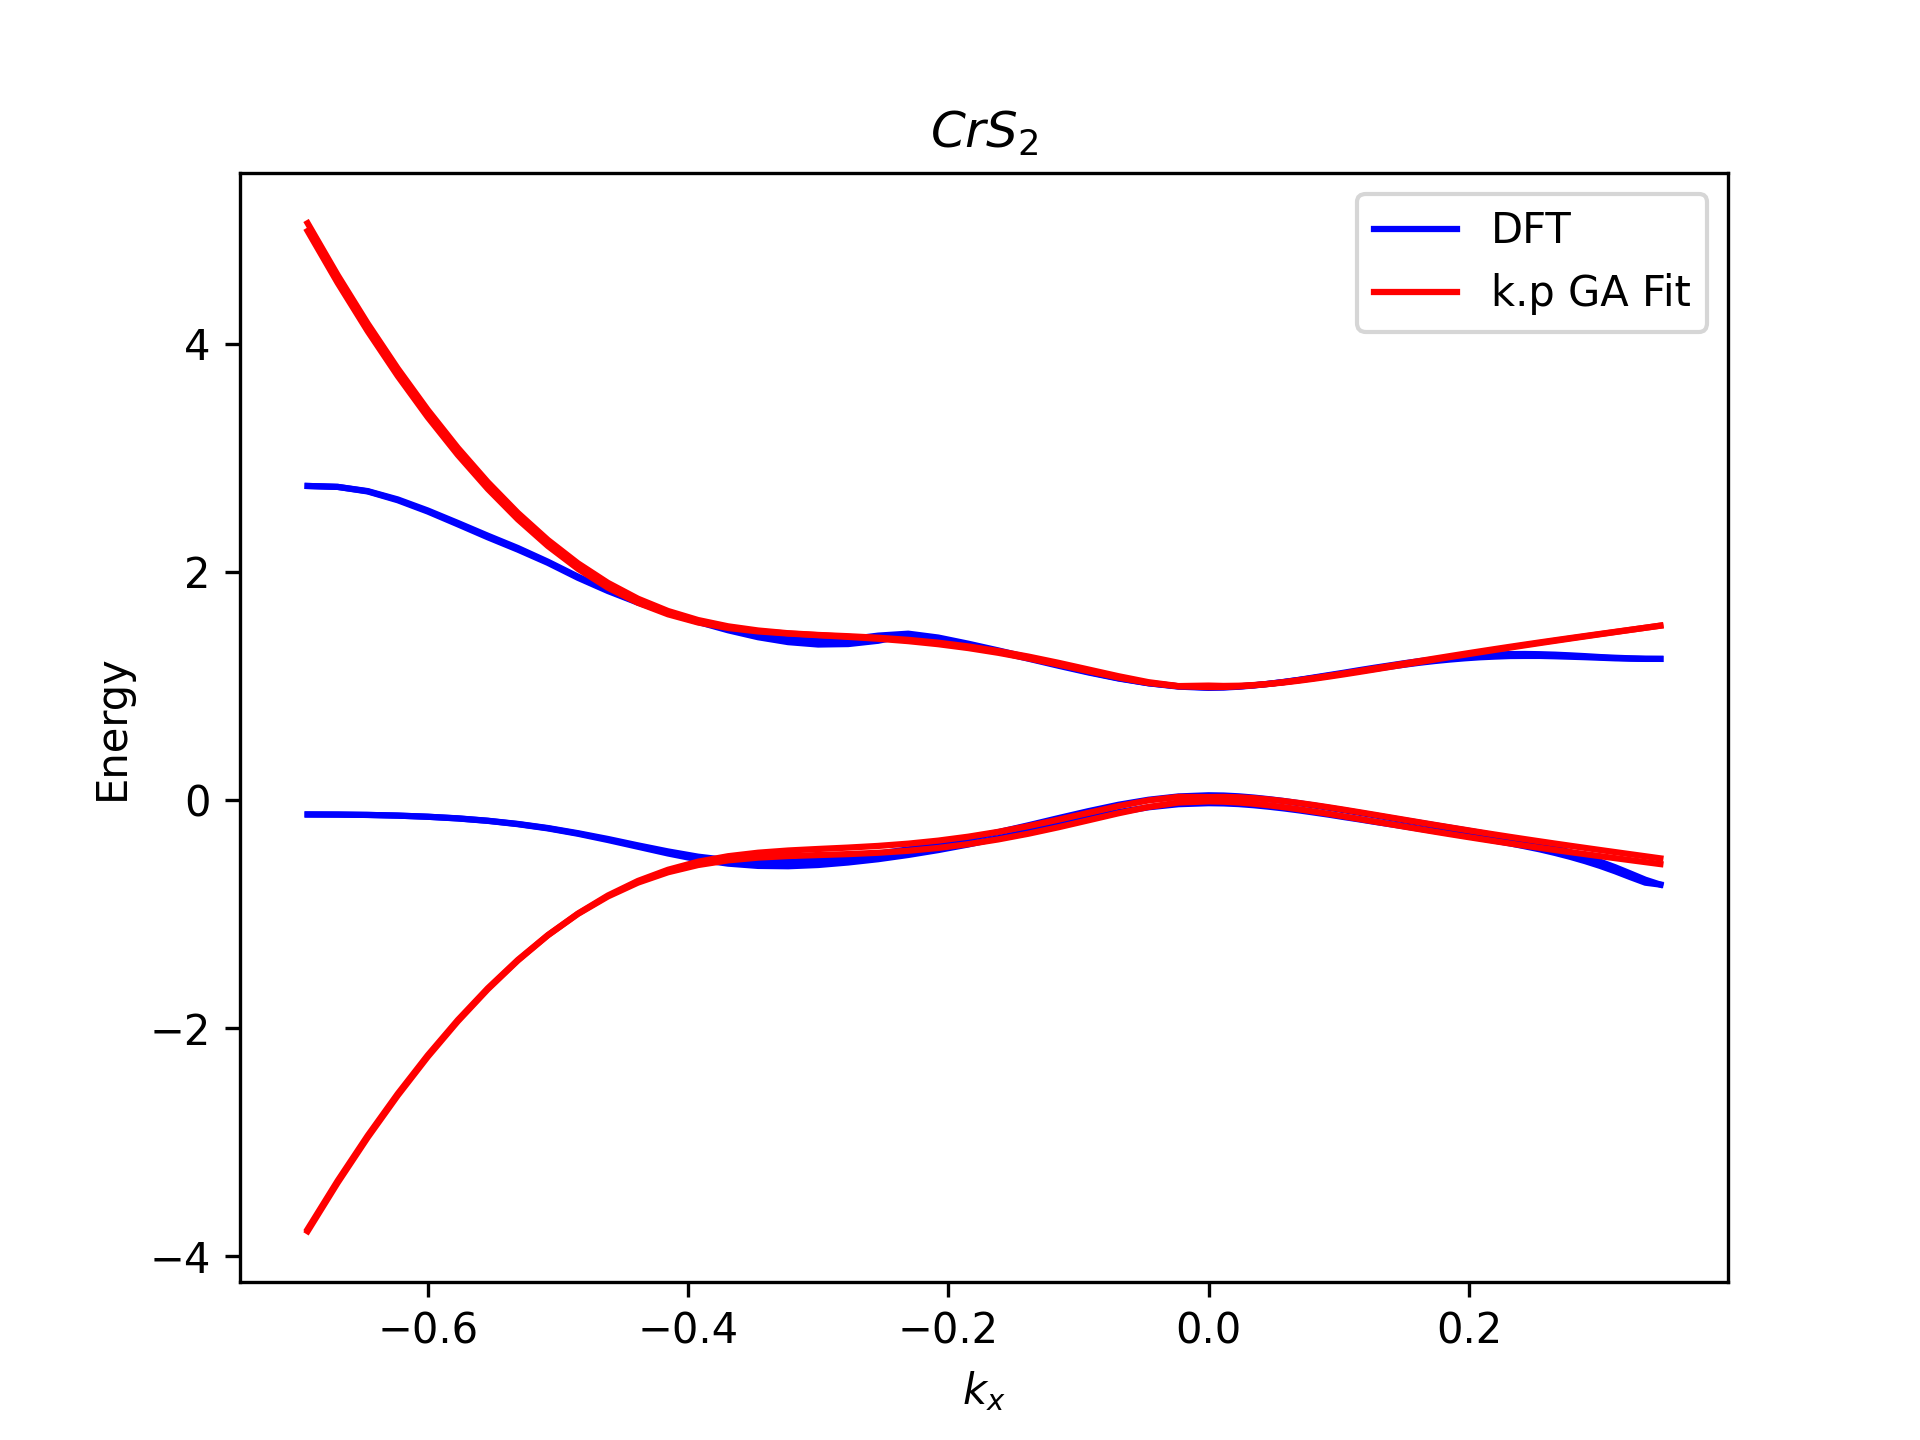
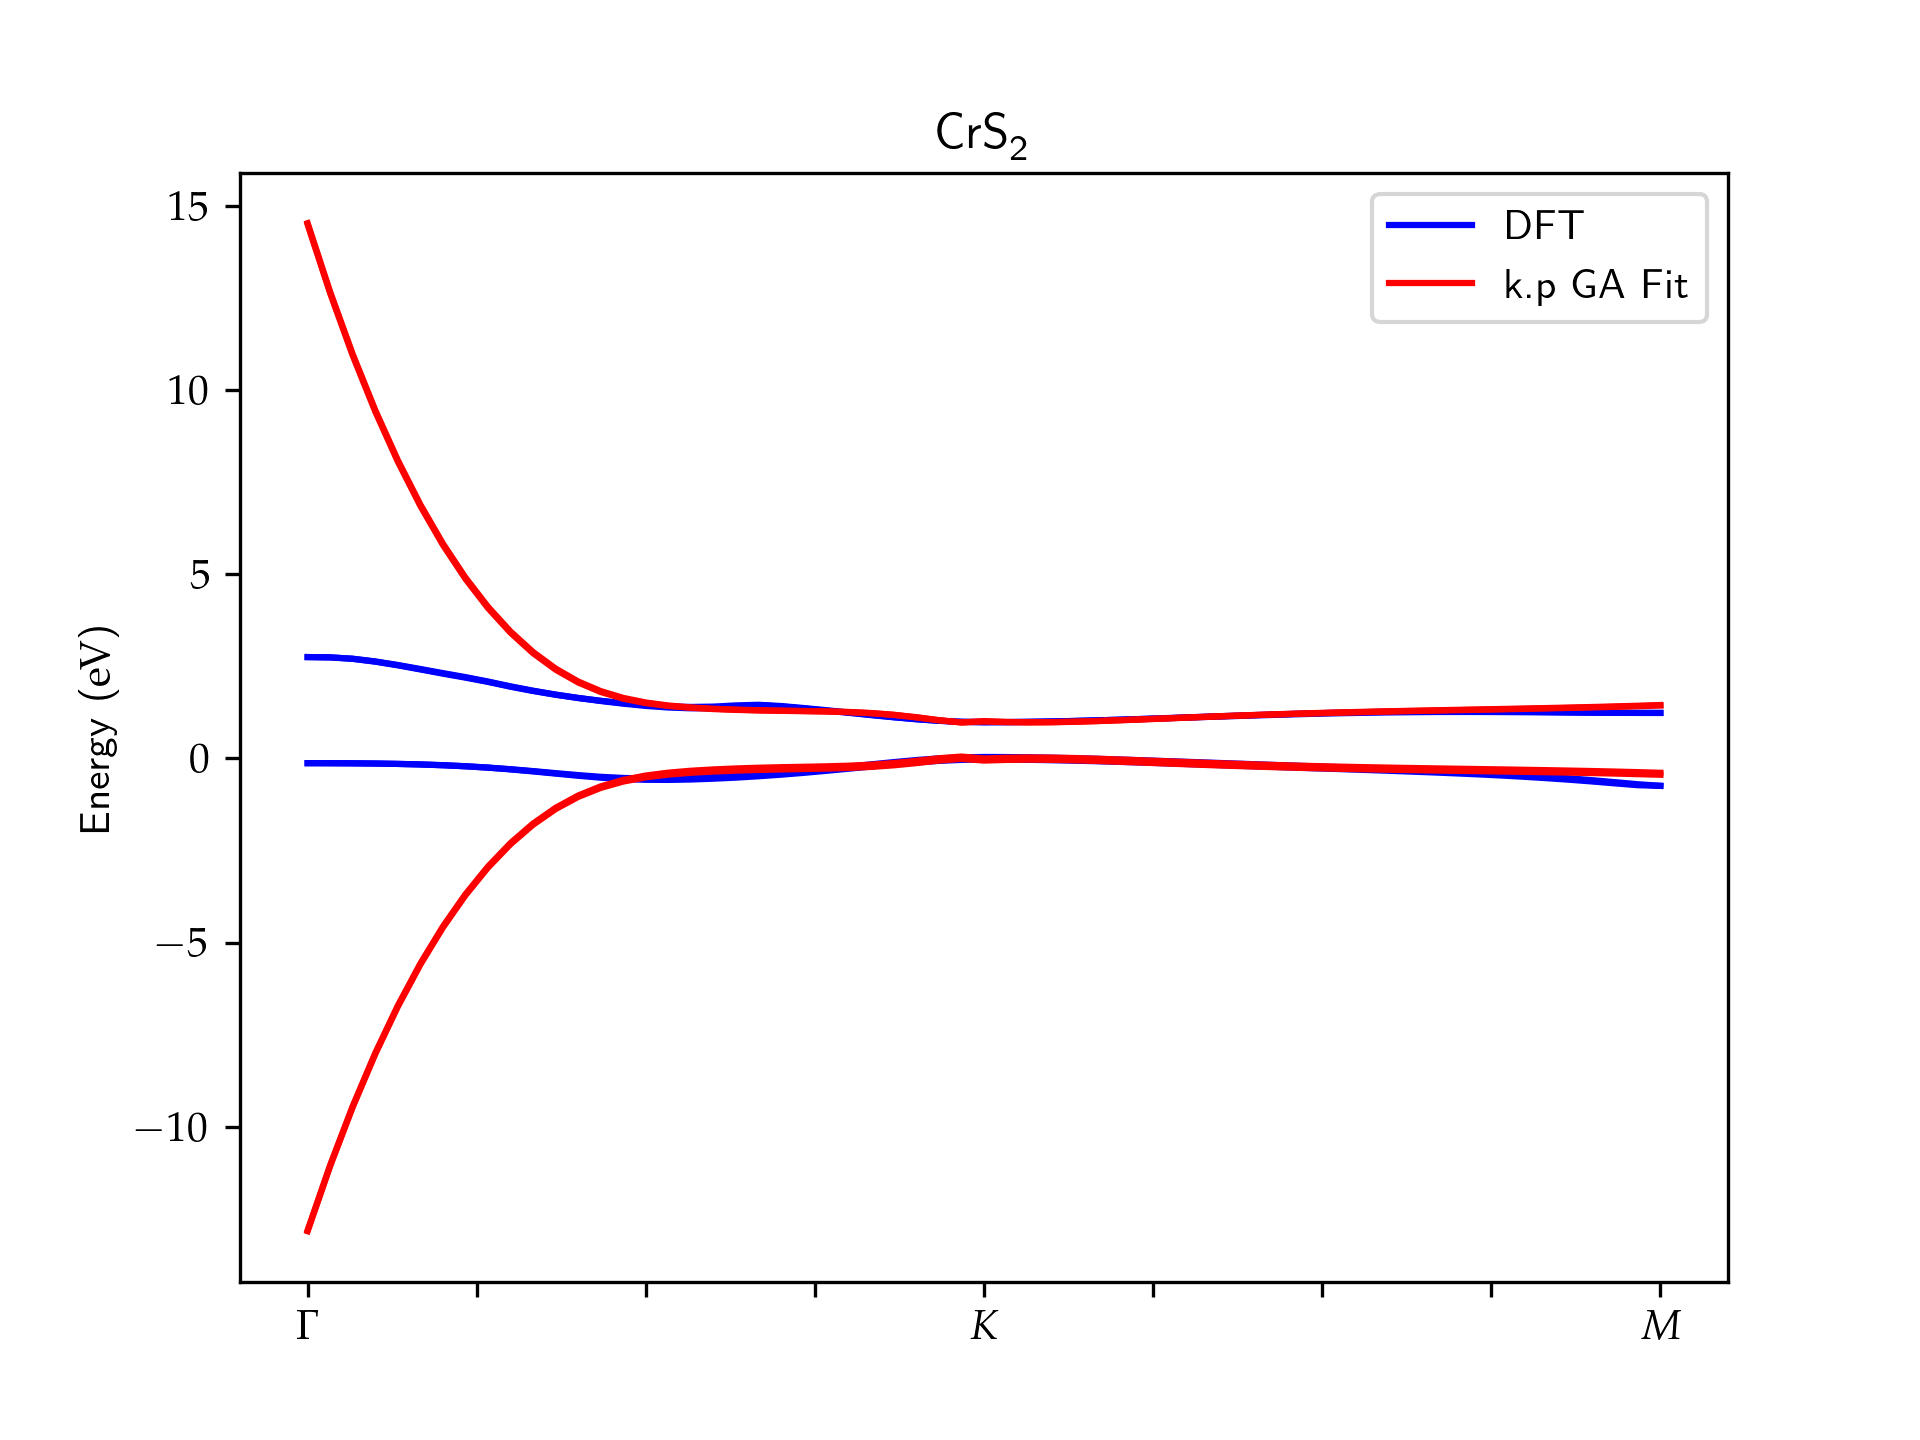
Improoving plot layout, refactoring

diff --git a/dual_annealing.py b/dual_annealing.py
@@ -5,17 +5,26 @@ from numpy.typing import ArrayLike
 import numpy as np
 from scipy.optimize import dual_annealing
 import matplotlib.pyplot as plt
+from mpl_config import latex_preamble, xtick_label_formatter
 from kp_model import (
     third_order_ham_factory,
     get_energies,
     avg_squared_diff,
+    get_fitting_region,
+    get_plot_domain,
+)
+
+plt.rcParams.update(
+    {
+        "text.usetex": True,
+        "text.latex.preamble": latex_preamble,
+    }
 )
 
 CRS2_LATTICE = 3.022302679
 CRSE2_LATTICE = 3.167287237
 
 csv_dir = Path("data/csv")
-csv_files = list(csv_dir.glob("*.csv"))
 plot_dir = Path("plots")
 
 suggested_search_region = (
@@ -55,20 +64,22 @@ dual_annealing_contexts = (
 
 def dual_annealing_callback(x, f, context_index):
     print(f"\nContext: {dual_annealing_contexts[context_index]}")
-    print(f"Function value: {f}")
+    print(f"Function value: {f: .4e}")
     print("Params:")
     for param, param_label in zip(iter(x), params_labels):
-        print(10 * " ", f"{param_label: <8} = {param}")
+        print(10 * " ", f"{param_label: <8} = {param: .4e}")
 
 
 if __name__ == "__main__":
+
+    csv_files = list(csv_dir.glob("*.csv"))
     lattices = (CRS2_LATTICE, CRSE2_LATTICE)
-    titles = ("$CrS_2$", "$CrSe_2$")
-    output_data = []
+    titles = ("$\ch{CrS2}$", "$\ch{CrSe2}$")
 
     for file, lattice, title in zip(csv_files, lattices, titles):
         crystal = file.stem.split("_")[0]
 
+        # Reading data from files
         print(f"\nFor {file}:", end="\n\n")
         print("Reading data")
         df = pd.read_csv(file)
@@ -76,45 +87,43 @@ if __name__ == "__main__":
         energies = df.loc[:, "e1":"e4"].to_numpy()
         sorted_energies = np.sort(energies)
 
-        k_fitting_region = (20, 50)
-        zero_neigh_ks = ks[k_fitting_region[0] : k_fitting_region[1], :]
-        zero_neigh_energies = sorted_energies[
-            k_fitting_region[0] : k_fitting_region[1], :
-        ]
+        # Data subset that will be used in the fitting process
+        lower_fit_bound, upper_fit_bound = get_fitting_region(ks)
+        fitting_ks = ks[lower_fit_bound:upper_fit_bound, :]
+        fitting_energies = sorted_energies[lower_fit_bound:upper_fit_bound, :]
+        print(
+            f"Fitting region: {fitting_ks[0, 0]: .3f} < kx < {fitting_ks[-1, 0]: .3f}"
+        )
 
         def obj_function(params: ArrayLike) -> float:
             return avg_squared_diff(
-                ks=zero_neigh_ks,
-                sorted_energies=zero_neigh_energies,
+                ks=fitting_ks,
+                sorted_energies=fitting_energies,
                 ham_factory=third_order_ham_factory,
                 params=(lattice, *params),
             )
 
-        print(f"Fitting for kx in [{zero_neigh_ks[0, 0]}, {zero_neigh_ks[-1, 0]}]")
         result = dual_annealing(
             obj_function,
             bounds=np.array(suggested_search_region),
             callback=dual_annealing_callback,
         )
-
-        # Energy diagrams
-        print("\nCreating energy plot")
-        fig, ax = plt.subplots()
-        ax.set(xlabel="$k_x$", ylabel="Energy", title=title)
-        ax.plot(ks[:, 0], sorted_energies, color="blue", label="DFT")
-
-        params = result.x
         best_func_value = result.fun
-
-        # Appending results to output_data to create an unified dataframe later
-        output_data.append([best_func_value, lattice] + list(params))
-
+        params = result.x
         sorted_eigenvalues = get_energies(
             ks, ham_factory=third_order_ham_factory, params=[lattice, *params]
         )
 
+        # Creating plots
+        print("\nCreating energy plot")
+        fig, ax = plt.subplots()
+        ax.set(ylabel=r"Energy (\si{\eV})", title=title)
+        ax.xaxis.set_major_formatter(plt.FuncFormatter(xtick_label_formatter))
+
+        plot_domain = get_plot_domain(ks)
+        ax.plot(plot_domain, sorted_energies, color="blue", label="DFT")
         ax.plot(
-            ks[:, 0],
+            plot_domain,
             sorted_eigenvalues,
             color="red",
             label="k.p Dual Annealing Fit",
@@ -129,28 +138,27 @@ if __name__ == "__main__":
         print(f"Saving figure as {filename}")
         plt.savefig(filename, dpi=300)
 
-    # Creating dataframe with the results
-    print("Creating a dataframe with the results")
-    output_df = pd.DataFrame(
-        data=np.array(output_data).transpose(),
-        columns=("crs2", "crse2"),
-        index=(
-            "obj_func_value",
-            "lattice",
-            "fermi_energy",
-            "delta",
-            "lamdba_c",
-            "lambda_v",
-            "gamma_0",
-            "gamma_1",
-            "gamma_2",
-            "gamma_3",
-            "gamma_4",
-            "gamma_5",
-            "gamma_6",
-        ),
-    )
+        # Creating dataframe with the results
+        print("Creating a dataframe with the results")
+        output_df = pd.DataFrame(
+            data=[best_func_value, lattice] + list(params),
+            index=(
+                "obj_func_value",
+                "lattice",
+                "fermi_energy",
+                "delta",
+                "lamdba_c",
+                "lambda_v",
+                "gamma_0",
+                "gamma_1",
+                "gamma_2",
+                "gamma_3",
+                "gamma_4",
+                "gamma_5",
+                "gamma_6",
+            ),
+        )
 
-    filename = csv_dir.joinpath("result_dual_annealing.csv")
-    print(f"Saving output as {filename}")
-    output_df.to_csv(filename)
+        filename = csv_dir.joinpath(f"{crystal}_result_dual_annealing.csv")
+        print(f"Saving output as {filename}")
+        output_df.to_csv(filename, header=None)

diff --git a/main.py b/main.py
@@ -4,25 +4,36 @@ from typing import List
 from pathlib import Path
 import multiprocessing as mp
 import pandas as pd
-from numpy.typing import ArrayLike
+from numpy.typing import ArrayLike, NDArray
 import numpy as np
+from numpy.linalg import norm
 import matplotlib.pyplot as plt
+from mpl_config import latex_preamble, xtick_label_formatter
 from num_opt_ga import NumericalOptimizationGA
 from kp_model import (
     third_order_ham_factory,
     get_energies,
     avg_squared_diff,
+    get_fitting_region,
+    get_plot_domain,
+)
+
+plt.rcParams.update(
+    {
+        "text.usetex": True,
+        "text.latex.preamble": latex_preamble,
+    }
 )
 
 PROCESSES = mp.cpu_count() - 2
 GENS = 50
+POP_SIZE = 500
 # THRESHOLD = 2e-4
 REFINEMENT_RATIO = 0.1
 CRS2_LATTICE = 3.022302679
 CRSE2_LATTICE = 3.167287237
 
 csv_dir = Path("data/csv")
-csv_files = list(csv_dir.glob("*.csv"))
 plot_dir = Path("plots")
 
 suggested_search_region = (
@@ -47,10 +58,6 @@ refined_interval_sizes = tuple(
 )
 
 
-def get_best_func_value(ga_instance: NumericalOptimizationGA) -> float:
-    return abs(ga_instance.function(ga_instance.best()[0].pos))
-
-
 def get_refined_search_regions(
     ga_list: List[NumericalOptimizationGA],
 ) -> List[NumericalOptimizationGA]:
@@ -61,6 +68,10 @@ def get_refined_search_regions(
         ]
         for ga in ga_list
     ]
+
+
+def get_best_func_value(ga_instance: NumericalOptimizationGA) -> float:
+    return abs(ga_instance.function(ga_instance.best()[0].pos))
 
 
 def evolve_ga(ga_instance: NumericalOptimizationGA) -> NumericalOptimizationGA | None:
@@ -91,12 +102,14 @@ def evolve_gas(
 
 if __name__ == "__main__":
 
+    csv_files = list(csv_dir.glob("*.csv"))
     lattices = (CRS2_LATTICE, CRSE2_LATTICE)
-    titles = ("$CrS_2$", "$CrSe_2$")
+    titles = ("$\ch{CrS2}$", "$\ch{CrSe2}$")
 
     for file, lattice, title in zip(csv_files, lattices, titles):
         crystal = file.stem.split("_")[0]
 
+        # Reading data from files
         print(f"\nFor {file}:", end="\n\n")
         print("Reading data")
         df = pd.read_csv(file)
@@ -104,13 +117,15 @@ if __name__ == "__main__":
         energies = df.loc[:, "e1":"e4"].to_numpy()
         sorted_energies = np.sort(energies)
 
-        k_fitting_region = (21, 48)
-        fitting_ks = ks[k_fitting_region[0] : k_fitting_region[1], :]
+        # Data subset that will be used in the fitting process
+        lower_fit_bound, upper_fit_bound = get_fitting_region(ks)
+        fitting_ks = ks[lower_fit_bound:upper_fit_bound, :]
+        fitting_energies = sorted_energies[lower_fit_bound:upper_fit_bound, :]
         print(
-            f"Fitting region: {fitting_ks[0, 0]: .2f} < kx < {fitting_ks[-1, 0]: .2f}"
+            f"Fitting region: {fitting_ks[0, 0]: .3f} < kx < {fitting_ks[-1, 0]: .3f}"
         )
-        fitting_energies = sorted_energies[k_fitting_region[0] : k_fitting_region[1], :]
 
+        # Objective function to optimize
         def obj_function(params: ArrayLike) -> float:
             return -avg_squared_diff(
                 ks=fitting_ks,
@@ -119,11 +134,12 @@ if __name__ == "__main__":
                 params=(lattice, *params),
             )
 
+        # Evolving gas
         gas = [
             NumericalOptimizationGA(
                 search_region=suggested_search_region,
                 function=obj_function,
-                pop_size=500,
+                pop_size=POP_SIZE,
                 elite=(10, 120, 120),
                 fit_func_param=10.0,
             )
@@ -133,11 +149,12 @@ if __name__ == "__main__":
         print(f"Evolving initial {PROCESSES} populations")
         gas = evolve_gas(gas)
 
+        # Evolving gas with refined search regions
         gas = [
             NumericalOptimizationGA(
                 search_region=search_region,
                 function=obj_function,
-                pop_size=500,
+                pop_size=POP_SIZE,
                 elite=(10, 120, 120),
                 fit_func_param=10.0,
             )
@@ -148,26 +165,27 @@ if __name__ == "__main__":
         gas = evolve_gas(gas)
         func_values = list(map(get_best_func_value, gas))
         best_func_value = min(func_values)
-        best_index = func_values.index(best_func_value)
-        ga = gas[best_index]
         print(f"Best function value: {best_func_value: .3e}")
 
-        # Energy diagrams
-        print("\nCreating energy plot")
-        fig, ax = plt.subplots()
-        ax.set(xlabel="$k_x$", ylabel="Energy", title=title)
-        ax.plot(ks[:, 0], sorted_energies, color="blue", label="DFT")
-
+        # Selecting relevant data from the ga containing the best individual
+        best_index = func_values.index(best_func_value)
+        ga = gas[best_index]
         best_gen = ga.gen
         params = ga.best()[0].pos
-        best_func_value = abs(obj_function(params))
-
         sorted_eigenvalues = get_energies(
             ks, ham_factory=third_order_ham_factory, params=[lattice, *params]
         )
 
+        # Creating plots
+        print("\nCreating energy plot")
+        fig, ax = plt.subplots()
+        ax.set(ylabel=r"Energy (\si{\eV})", title=title)
+        ax.xaxis.set_major_formatter(plt.FuncFormatter(xtick_label_formatter))
+
+        plot_domain = get_plot_domain(ks)
+        ax.plot(plot_domain, sorted_energies, color="blue", label="DFT")
         ax.plot(
-            ks[:, 0],
+            plot_domain,
             sorted_eigenvalues,
             color="red",
             label="k.p GA Fit",

diff --git a/kp_model.py b/kp_model.py
@@ -1,7 +1,7 @@
 from __future__ import annotations
 from typing import Sequence, Callable
 from numpy.typing import NDArray
-from numpy.linalg import eig
+from numpy.linalg import eig, norm
 import numpy as np
 
 ETA = 1
@@ -221,3 +221,29 @@ def avg_squared_diff(
     sorted_eigenvalues = get_energies(ks, ham_factory, params)
     squared_diffs = (sorted_eigenvalues - sorted_energies) ** 2
     return np.sum(squared_diffs) / (squared_diffs.shape[0] * squared_diffs.shape[1])
+
+
+def get_fitting_region(
+    ks: NDArray,
+    lower: float = -0.2,
+    upper: float = 0.2,
+) -> NDArray:
+    """
+    Given a ks array, return the row indices between which lower < kx < upper
+    """
+    (indices,) = np.where((ks[:, 0] >= lower) & (ks[:, 0] <= upper))
+    return indices[0], indices[-1]
+
+
+def get_plot_domain(ks: NDArray) -> NDArray:
+    (k_k_index,) = np.where(ks[:, 0] == 0.0)
+    k_k_index = k_k_index[0]
+    k_gamma = ks[0]
+    k_k = ks[k_k_index]
+    k_m = ks[-1]
+    norms = np.apply_along_axis(norm, 1, ks - k_k)
+    first_region_norms = norms[:k_k_index]
+    second_region_norms = norms[k_k_index:]
+    first_region_xs = -first_region_norms / norm(k_gamma - k_k)
+    second_region_xs = second_region_norms / norm(k_m - k_k)
+    return np.concatenate((first_region_xs, second_region_xs))

diff --git a/mpl_config.py b/mpl_config.py
@@ -1,0 +1,17 @@
+def xtick_label_formatter(value: float, tick_number: int) -> str:
+    if value == -1.0:
+        return r"$\Gamma$"
+    if value == 0.0:
+        return r"$K$"
+    if value == 1.0:
+        return r"$M$"
+    return ""
+
+
+latex_preamble_entries = [
+    r"\usepackage[sc]{mathpazo}",
+    r"\usepackage{siunitx}",
+    r"\usepackage{chemformula}",
+]
+
+latex_preamble = " ".join(latex_preamble_entries)
